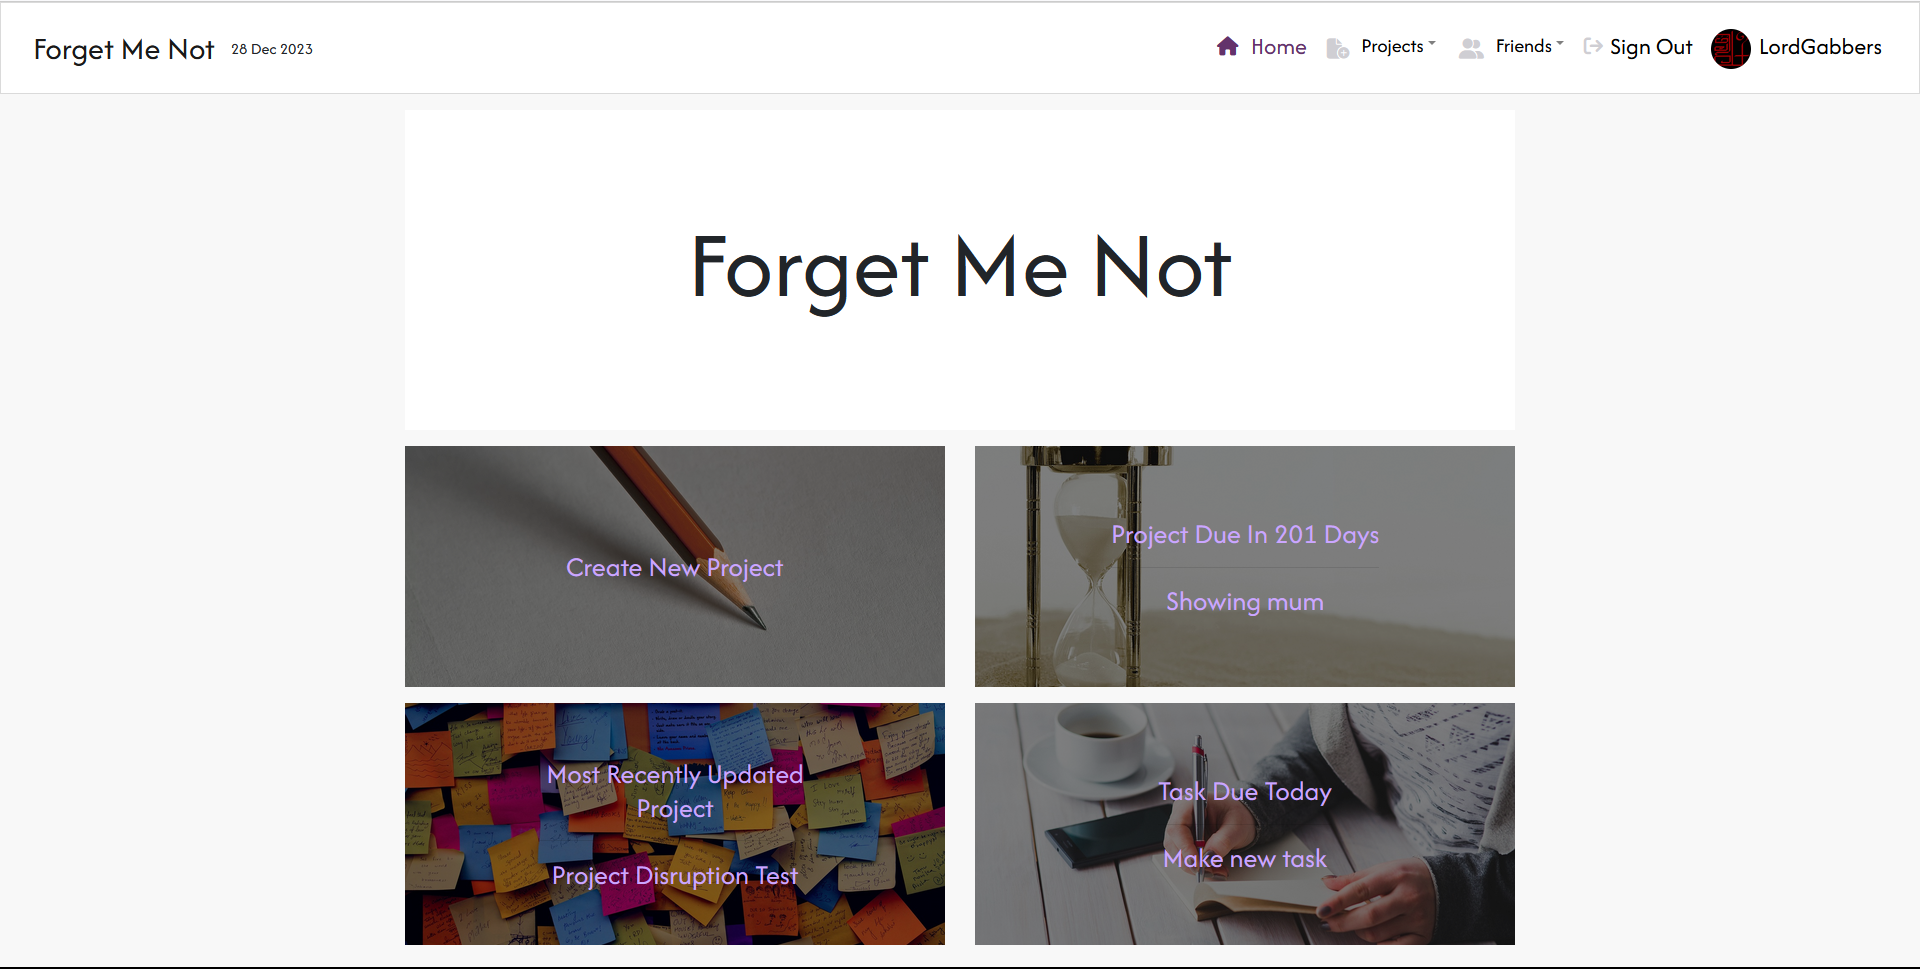
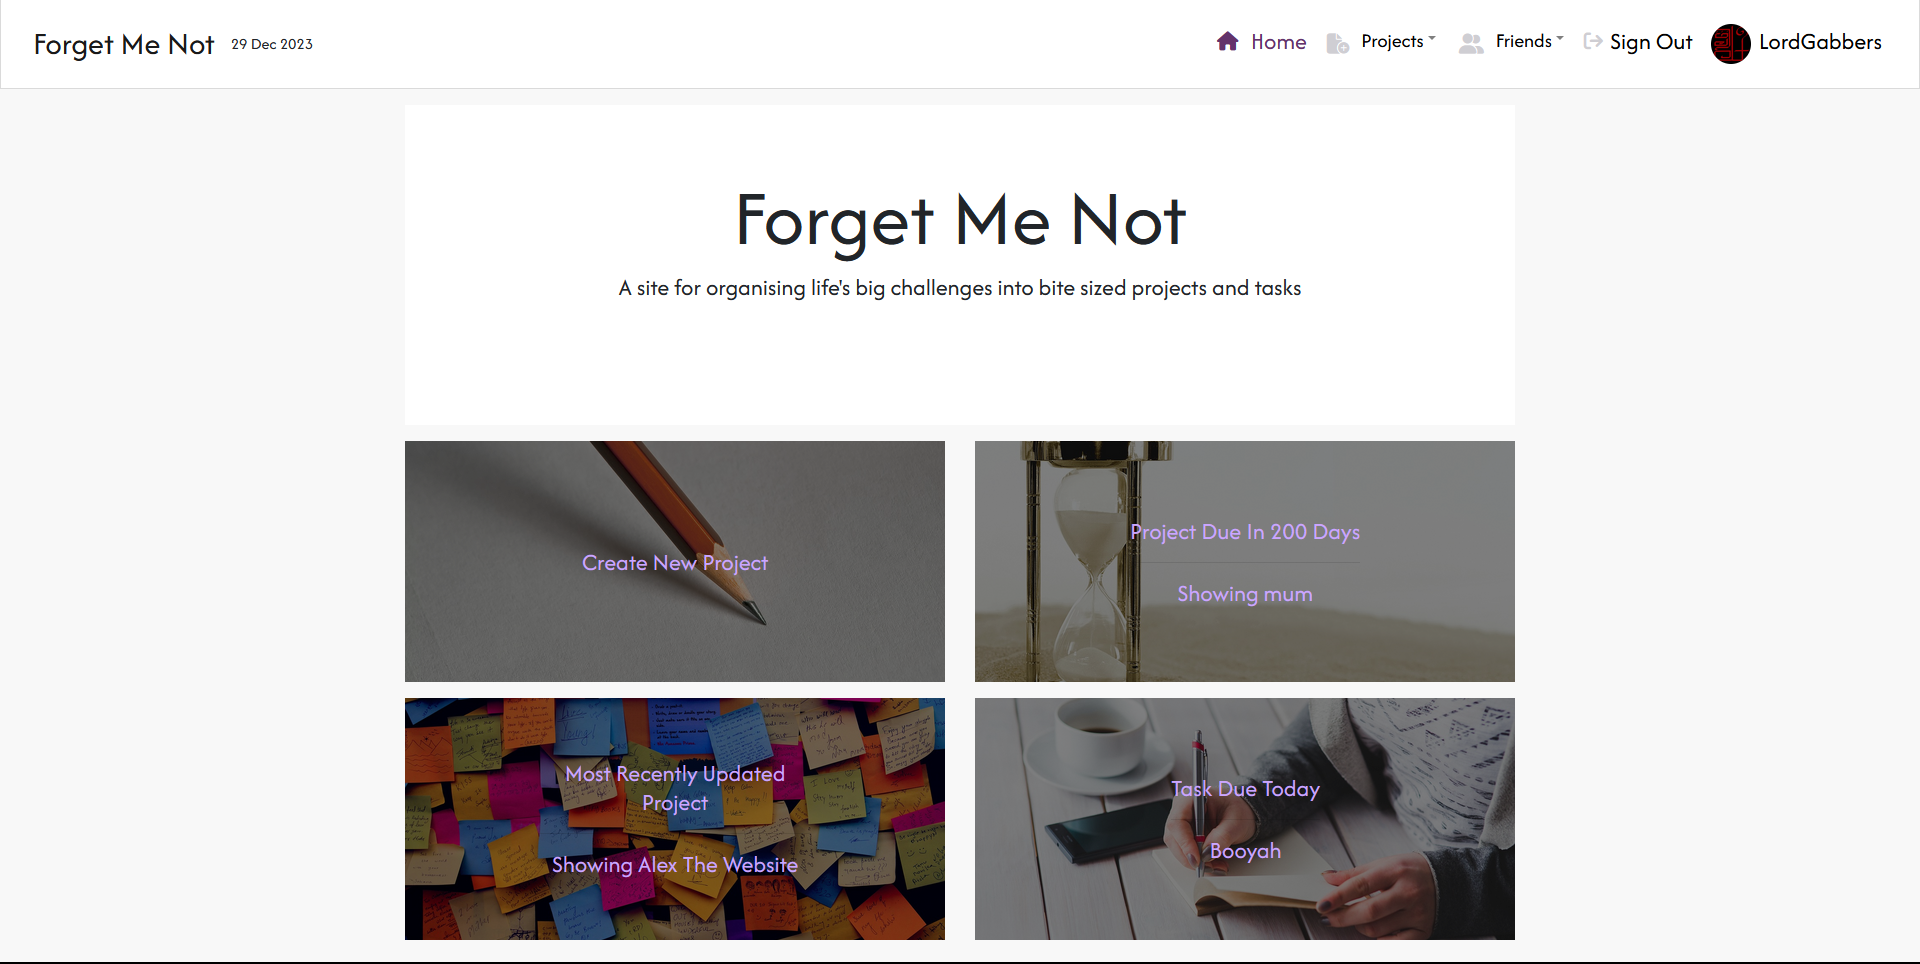
Adds the agile methodology to the readme file

diff --git a/src/styles/HomePage.module.css b/src/styles/HomePage.module.css
@@ -5,14 +5,15 @@
     height: 32rem;
     border-color: black;
     width: 100%;
-    padding: 0; /* Remove default padding */
+    padding: 0;
 }
 
 .TitleContainer {
     margin-top: 1rem;
     height: 20rem;
     background-color: #fff;
-    padding-top: 6rem;
+    padding-top: 4rem;
+    padding-bottom: 2rem;
 }
   
 .LinkDiv {
@@ -84,5 +85,23 @@
 }
 
 .BigTitle {
-    font-size: 6rem;
+    font-size: 5rem;
 }
+
+.Title {
+    font-size: 1.5rem;
+}
+
+@media screen and (max-width: 600px) {
+    .BigTitle {
+        font-size: 10vw;
+    }
+    
+    .Title {
+        font-size: 5vw;
+    }
+    .TitleContainer {
+        height: 30vw;
+        padding-top: 1rem;
+    }
+  }

diff --git a/src/pages/other/HomePage.js b/src/pages/other/HomePage.js
@@ -335,7 +335,6 @@ const HomePage = () => {
             </Col>
           </Row>
         </Container>
-        ;
       </>
     );
   };
@@ -344,6 +343,7 @@ const HomePage = () => {
     <>
       <Container className={styles.TitleContainer}>
         <h1 className={`text-center ${styles.BigTitle}`}>Forget Me Not</h1>
+        <h5 className={`text-center ${styles.Title}`}>A site for organising life's big challenges into bite sized projects and tasks</h5>
       </Container>
       {currentUser ? renderContent() : renderSignedOut()}
     </>

diff --git a/src/pages/projects/ProjectEditForm.js b/src/pages/projects/ProjectEditForm.js
@@ -11,7 +11,7 @@ import styles from "../../styles/ProjectCreateEditForm.module.css";
 import appStyles from "../../App.module.css";
 import btnStyles from "../../styles/Button.module.css"
 import { axiosReq } from "../../api/axiosDefaults";
-import { useHistory, Redirect } from "react-router-dom";
+import { useHistory } from "react-router-dom";
 import officeTeamImage from "../../assets/office-team.jpg"
 
 const ProjectEditForm = ({ location }) => {

diff --git a/src/components/RequireAuth.js b/src/components/RequireAuth.js
@@ -1,5 +1,4 @@
 import React from 'react';
-import { Redirect } from 'react-router-dom';
 import { useCurrentUser } from '../contexts/CurrentUserContext';
 import Error404 from '../pages/errors/Error404';
 

diff --git a/README.md b/README.md
@@ -144,10 +144,11 @@ Forget me Not provides users with the ability to create projects along with assi
 - As a user, I can attatch a file, such as a word document or a powerpoint file so that I can allow other collaborators to view the work I have done.
 - As a user, I can open a calendar so that I can see the deadlines of my projects and my tasks.
 - As a user, I can message my friends or fellow collaborators so that I can keep work related discussions in one location.
+- As a user, I can view other users' profile pages so that I can see if I want to send them a friend request, or view our friendship status.
+- As a user, I can edit my profile page so that I can add my own bio and profile image.
 
 ![User Stories](/src/assets/user-stories.png)
 
-Unfortunately, the calendar, messaging and sending files were not able to be completed by the final sprint. So were not implemented into the final deployed project.
 
 ## **Site Aims**
 
@@ -170,6 +171,8 @@ Both of these models were created using https://www.drawio.com/
 
 ## **Design**
 
+### **Colour** (not color)
+
 Because the application is more character based rather than image based, I thought it best to use minimal colouring with shades of white to make up the structure of the page: #f8f8f8 for the app's background colour and #ffffff for the background of all components.
 
 Since the website's name was Forget Me Not, which is also the name of a purple flower, I decided to use shades of purple for my site, however, since Forget-me-nots are a light shade of purple, I opted to use darker shades: #63336B for the buttons, #CBA6FF for text on dark backgrounds on the Home Page.
@@ -181,12 +184,164 @@ To contrast when hovered, I used #d4af37, a shade of gold to stand out clearly f
 
 ![Hero Image](/src/assets/project-list.png)
 
+
+
 # **Agile Development Process**
 
 ## **Overview**
 
 This section will specifically discuss the front end for this project.
 For the backend, please visit the [Forget Me Not DRF API](https://github.com/L0rdGabbers/forget-me-not-drf).
+
+### Sprint 1 notes:
+For my first sprint, I had decided on implementing the NavBar as this would be the main tool for navigating between pages and it was present on every page. I also focused on the sign in and sign up functions since users have to be logged in to access the API.
+
+#### 9/12/23
+* Today's work consisted of using the Navbar from the Code Institute Moments Example, but reimagining it for my portfolio's purposes, such as including 'Projects' and 'Friends' icons.
+
+#### 11/12/23 - 13/12/23
+* During this time I focused on the development of the sign up and sign in pages, as well as creating dropdown menus for the 'Projects' and 'Friends' tabs in the Navbar.
+
+#### Completed User Stories:
+- As a user, I can use a navbar on all pages so that I can get to any desired page.
+- As a User, I can navigate between pages effortlessly so that I can use the website without any page refreshes.
+- As a User, I can sign into my profile so that I can access my projects, tasks, and friends list.
+- As a user, I can sign up to the website so that I can access all the content available to authenticated users.
+- As a user, I can determine clearly whether I am logged in or not so that I can log back in if need be.
+- As a user, I can remained logged in (for at least 24 hours) so that I can enjoy my experience without being logged out every 5 minutes.
+- As a logged out user, I can see 'sign in' and 'sign up' options so that I can update my signed in status.
+
+### Sprint 2 notes
+* For my second sprint I had decided to work on the FriendCreateForm page, the FriendList page (so that I would be able to add the collaborators to my projects), and the FriendRequests page.
+
+#### 13/12/23
+* I started work on the CreateFriendForm and added some functionality to ensure that users wouldn't be able to add themselves (or people that were already friends etc.) once the add friend functionality was completed
+
+#### 14/12/23
+* I finalised the add friend functionality and created the FriendList page, so that the unfriend functionality could be implemented.
+* I added the ability for a user to cancel their sent friend requests, as well as accept or decline any friend requests they might have received.
+
+#### 15/12/23
+* I noticed an issue with the send friend request validation methods, so I implemented a series of ifs and else ifs to ensure that only profiles who had no friend status with the user could be friended.
+
+#### Completed User Stories:
+- As a logged in user, I can send a friend request to another user so that I can make them collaborators on my future projects.
+- As a user, I can accept or decline any friend requests that were sent to me so that I can confirm whether I want a particular user to work on my projects.
+- As a user, I can cancel any friend requests that I sent before they are accepted by the recipient so that I can prevent people that I didn't mean to send requests from seeing my request in the first place.
+- As a logged in user, I can see a list of my friends so that I can decide who should be collaborators on my projects and tasks.
+
+### Sprint 3 notes
+* At this point, I had begun developing the Project's and Task's Create and List pages. Since now users were able to have friends in their friends list, they were able to appoint collaborators, so project creation was now possible.
+
+#### 17/12/23
+* Most of the ProjectCreateForm was fairly standard, the most difficult part to implement was the option to add numerous collaborators onto one project. (I actually spent the whole day fixing that problem and it will feature as this project's Big Bug Number One, plus it made me miss villiage caroling.)
+* I had also updated the back end serializer for the project so that it could display how many of a project's tasks had been completed and how many had not. 
+
+#### 18/12/23
+* Since it followed a similar format, I begun the creating the TaskCreateForm, which worked much more quickly.
+* I had begun working on the displaying of the ProjectEditForm, however it would prepopulate the data fields.
+* During a meeting with my mentor, we went over the ProjectEditForm and fixed the issue so that ProjectEditForms would be prepopulated with data.
+
+#### 20/12/23
+* A major issue occured when testing the Unfriend system in the FriendList page, wherein the Friend model ID was not the same as the profile's ID, and so the wrong friend would be unfriended. This fix for this bug involved updating the serializer fields in the backend and then specifying which ID had to be used in the unfriend handler.
+* I created and finished the TaskEditForm, quite easily, since it had very similar code from the ProjectEditForm.
+* I created a responsive Back Button component so that the user always had the ability to go back a page.
+
+#### Completed User Stories:
+- As a logged in user, I can create projects so that I can organise myself and set clear deadlines.
+- As a user, I can view the details of my projects or projects that I'm a colaborator of so that I can see the tasks and deadlines of the project.
+- As a logged in user, I can create tasks associated to my projects so that I can break up my projects into bite-sized chunks.
+- As a logged in user, I can view my projects' tasks or tasks that I'm associated with so that I can the tasks details.
+- As an owner of a project, I can edit or delete my projects or their assoicated tasks so that I can edit or remove any mistakes in any of my projects.
+- As a project owner, I can edit my projects and tasks so that I can change my projects' collaborators or change any neccessary details regarding the project.
+- As a project owner, I can confirm that a project is complete so that I can remove it from my todo projects.
+- As a project owner or task collaborator, I can confirm that a task is complete so that I can mark a project's task's completion status is positive.
+
+### Sprint 4 notes
+* Boring stuff out of the way, now it's time to show off! This sprint focused on the Profile Page, so that users could view profile pages, and update their ones.
+* After the profile page was out of the way, I began working on improving the overall UX and the styling of the project.
+
+#### 21/12/23
+* At the end of the day, I had managed to get a user's name and default avatar showing in a profile page, but it still required work to display whether it was the user's own profile, the profile of someone they knew, a collaborator they happened to be associated on a project with or somewhere inbetween.
+
+#### 23/12/23
+* Implementing code that could receive data from currentUser or from a get request to a specific profile, was imensely frustrating. In the end I made two Pages: the MyProfilePage and the ProfilePage so that I could handle the different data types more easily.
+* To make the form pages more attractive, I added some images which match the stages of a project's development.
+
+#### **CHRISTMAS BREAK!**
+* Happy belated Christmas to you.
+
+#### 27/12/23
+* I had begun working on the Home Page so that a user would be prompted to create a new project or work on the most urgent project or task. It would also have functionality to check whether the user had any projects.
+* I created the RequireAuth functionality so that user's couldn't just type things into the URL and get access to certain projects, thus encouraging the use of the pathways on the screen.
+
+#### 28/12/23
+* Project deployment and touchups to the readme.
+
+#### Completed User Stories:
+- As a user, I can use avatars so that so that I can show off my personality and quickly identify others.
+- As a user, I can view other users' profile pages so that I can see if I want to send them a friend request, or view our friendship status.
+- As a user, I can edit my profile page so that I can add my own bio and profile image.
+
+### Incomplete User Stories:
+- As a user, I can attatch a file, such as a word document or a powerpoint file so that I can allow other collaborators to view the work I have done.
+- As a user, I can open a calendar so that I can see the deadlines of my projects and my tasks.
+- As a user, I can message my friends or fellow collaborators so that I can keep work related discussions in one location.
+
+#### Incomplete Story Notes:
+* I had tried to implement the file attatchment functionality to the backend, since it seemed like this would be a great way to organise a project by having completed documents all in one online cloud space, but it proved to be quite time consuming for one feature and as such it will remain a feature for future implementation.
+* A calendar to view how busy certain time periods could be felt like a very suitable thing for this project, but unfortunately, I have never worked with a calendar before and was felt that it ought to remain an idea for future implementation.
+* This idea seemed very sensible to allow messages between a project owner and their collaborators to help clarify the necessities of certain tasks. Personally, I am quite dissapointed that I didn't think to implement this earlier during backend development, but I was really unsure that I would be able to implement a friend system in the first place, so I feel satisfied with the idea of implementing friend messaging as a future feature.
+
+# **Features**
+
+## **Navbar**
+
+### **Navlinks**
+
+The Navbar has three sets of Navlinks: standard, logged in and logged out. If a page which can be requested by a navlink is displaying, the icon will turn purple to indicate the user's online location.
+
+* The only standard navlink is the Home Page Link, and is always visible
+* The logged out navlinks include the sign in and the sign up link. Should currentUser return null, i.e. the user is not logged in, these icons will display.
+
+![Logged Out Navbar](/src/assets/navbar-logged-out.png)
+
+* The logged in navlinks include the projects, friends, sign out and profile navlinks and are visible whenever the user is logged in. The profile navlink will feature an Avatar which has a default value.
+
+![Logged In Navbar](/src/assets/navbar-logged-in.png)
+
+### **Current Date**
+In the middle of the navbar, the current date is displayed.
+
+### **Hamburger**
+The Hamburger icon appears at screen widths below 1200px. Should the user use the Hamburger Icon to access the Navlinks, the projects and friends dropdown menus will BOTH display. This is because the Hamburger dropdown navbar will close after one click on any location, and touch phone users will not be able to hover over the icons to view the dropdown navlinks.
+
+![Hamburger](/src/assets/hamburger.png)
+
+## **Home Page**
+The Home Page acts as a warm welcome to new users and a quick and easy place to get started for seasoned users.
+
+### **Links**
+
+#### **Logged Out Links**
+* If a user is logged out, the option for them to log in or sign up will be provided.
+
+![Home Page: Logged Out](/src/assets/home-page-logged-out.png)
+
+#### **Logged In Links**
+* Logged In users might will see a variety of things. A link to the create project form, a link to their tasks and projects which have the shortest ammount of days before their due date and will also show them the project that has been updated most recently. The titles of their projects and tasks will dispplay at the bottom of their respective image.
+
+![Home Page](/src/assets/home-page.png)
+
+* If the user has no projects that meet these criteria, the links will simply be deactivated and display as not allowed to the user.
+
+![Home Page: Disabled](/src/assets/home-page-disabled.png)
+
+## **Project and Task Create and Edit Forms**
+
+### **Clarification**
+These Pages have far more similarities than differences.
+
 
 
 
